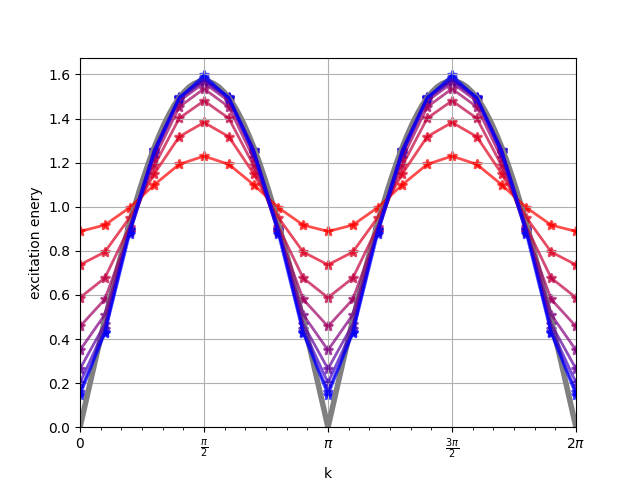
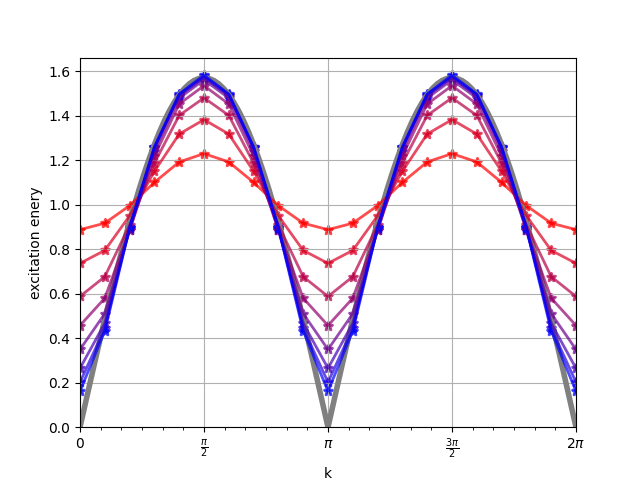
readme

Changed region(s): [[0.0625, 0.125, 0.9062, 0.8438], [0.0625, 0.1562, 0.0938, 0.1875]]

diff --git a/README.md b/README.md
@@ -82,7 +82,7 @@ To keep the equivalence explicit, here term "monostar model" is used instead of 
 
 ## Results from bftp solver
 
-The plot below presents the system Hamiltonian eigenenergies for `af` monostar system of 20 nodes calculated with `bfpt` at different levels of approximation. The considered system states are: the system ground state (horizontal lines on the plot) and system states from the first excited band (the curves on the plot). Result obtained in calculations with the Hilbert space subspaces of orders from 1 to 9 (inclusive) are represented by lines with colors going from red to blue. In addition exact results for infinite chain was included for reference; the reference energies are represented by gray lines. (The ground state energy was scaled so to preserve the quantum correlation energy per node.)
+The plot below presents the system Hamiltonian eigenenergies for `af` monostar system of 20 nodes calculated with `bfpt` at different levels of approximation. The considered system states are: the system ground state (horizontal lines on the plot) and system states from the first excited band (the curves on the plot). Result obtained in calculations with the Hilbert space subspaces of orders from 1 to 8 (inclusive) are represented by lines with colors going from red to blue. In addition exact results for infinite chain was included for reference; the reference energies are represented by gray lines. (The ground state energy was scaled so to preserve the quantum correlation energy per node.)
 
 !["Monostar model -- absolute energies"](img/model_monostar_20sites_absolute_energy.png "Monostar model -- absolute energies")
 
